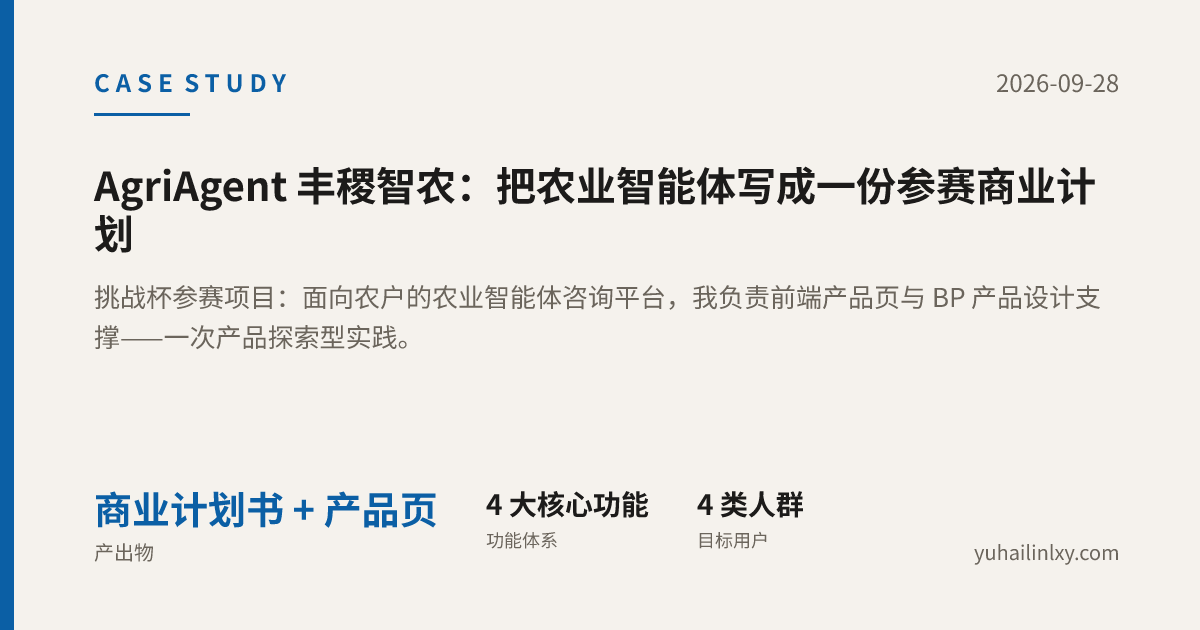
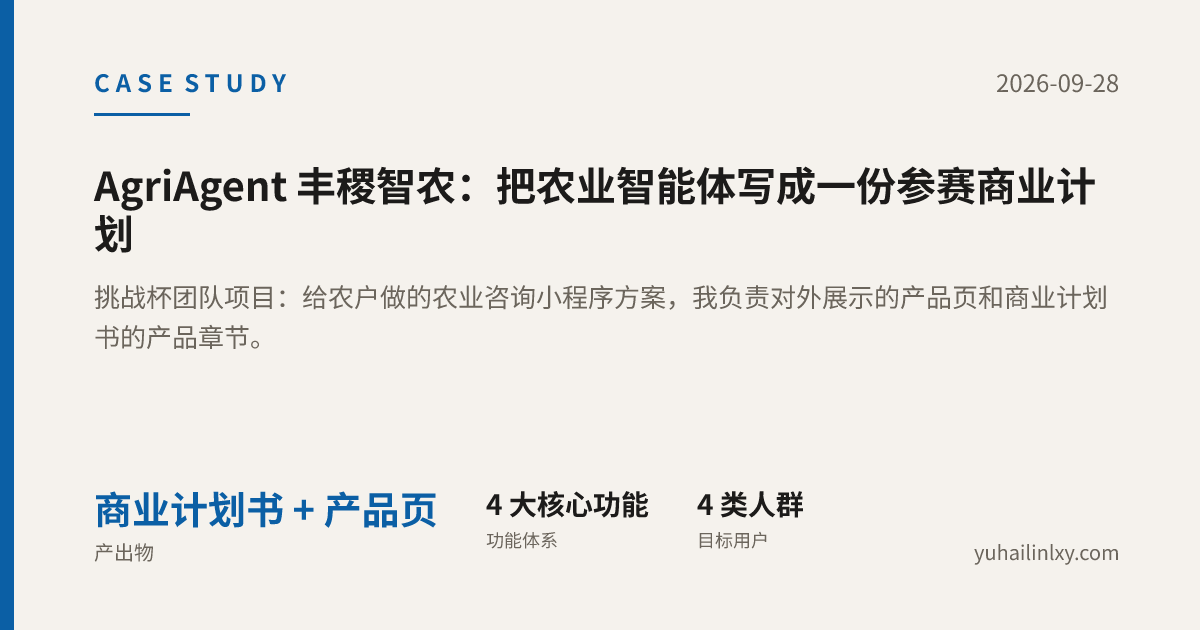
feat(site): 双阅读档位 —— 案例页一键在「简明 / 完整」之间切换
做法：一份正文。每个 h2 后的第一段就是导读，简明档只留「标题 + 导读」，完整档全给；DOM 不增不减，所以打印、搜索、分享都不会出现第二份内容。状态在 html[data-level]，localStorage 记住、?level=full 可分享，首帧由 Layout 的内联脚本写，不闪。

5 篇案例各补 5 段导读（20-80 字、不用术语、数字与正文一致），5 条卡片描述也改成先说人话。新增第 13 道门禁 check-levels：导读存在 / 字数 / 数字一致 / 术语黑名单。

顺带把 AgriAgent 那条「待补充：小挑二等」按证书核实改成院赛二等奖（2026.03，团队 11 人，指导老师张智强）。

Changed region(s): [[0.0617, 0.4524, 0.3392, 0.573], [0.6475, 0.4524, 0.925, 0.5127], [0.4008, 0.4524, 0.555, 0.5127]]

diff --git a/site/src/styles/global.css b/site/src/styles/global.css
@@ -96,3 +96,34 @@
     scroll-behavior: smooth;
   }
 }
+
+/* ---------- 阅读档位（2026-10-28） ----------
+   约定：案例详情页里，每个 <h2> 后的第一段就是「导读」（scripts/check-levels.mjs 把关）。
+   简明档只留小节标题 + 导读；完整档全部显示。DOM 不增不减，所以打印、搜索、分享
+   都不会出现"另一份内容"，也不存在两套事实。
+
+   为什么写在全局而不是组件里：Astro 的 scoped style 会给选择器加 data-astro-cid 前缀，
+   而 <article class="levelled"> 是详情页渲染的，组件里的样式匹配不到它。 */
+.levelled > h2 + p {
+  margin-block: 0.55em 1em;
+  padding-inline-start: 0.85em;
+  border-inline-start: 2px solid var(--section-case);
+  color: var(--foreground);
+  font-size: 1.02em;
+  line-height: 1.8;
+}
+
+[data-level="plain"] .levelled > * {
+  display: none;
+}
+[data-level="plain"] .levelled > h2,
+[data-level="plain"] .levelled > h2 + p {
+  display: block;
+}
+
+@media print {
+  /* 打印永远给完整版：面试官打出来看，不该丢细节 */
+  [data-level="plain"] .levelled > * {
+    display: revert;
+  }
+}

diff --git a/site/src/content/case-studies/personal-workbench.md b/site/src/content/case-studies/personal-workbench.md
@@ -1,6 +1,6 @@
 ---
 title: "个人工作台：10 周 47 个版本的自我管理产品"
-description: "React 19 + Supabase 的自用效率工作台：模块注册表、双适配器数据层、三项体积预算，以及一套跑在免费额度上、每天自动出稿的 AI 日报链路。"
+description: "给自己做的效率工作台：待办、计时、热点、复盘收进一个首页。10 周发了 47 个版本，每天凌晨自动生成一份 AI 日报。"
 pubDatetime: 2026-09-28T12:00:00+08:00
 modDatetime: 2026-10-16T23:30:00+08:00
 featured: true
@@ -24,7 +24,9 @@ metrics:
 
 ## 一、背景与问题
 
-我是大二学生，同时要管课程、竞赛、部门事务和好几个开发项目。市面工具要么太重——Notion 全家桶学习成本高、打开慢；要么只解决单点——番茄钟、待办、笔记各自为政，数据分散在五个 App 里，复盘时凑不齐。
+我同时管着课程、竞赛、部门事务和好几个开发项目，市面上的工具要么太重，要么各管一摊、数据分散。我想要一个打开就知道「今天该干什么」的入口。
+
+市面工具要么太重——Notion 全家桶学习成本高、打开慢；要么只解决单点——番茄钟、待办、笔记各自为政，数据分散在五个 App 里，复盘时凑不齐。
 
 我要的是一个**打开就能看到“今天该干什么”的单一入口**：待办、学习目标、专注计时、热点资讯、健康打卡、每日复盘在同一个系统里互相引用（复盘能一键转成明日待办，考试倒计时能触发提醒）。
 
@@ -32,11 +34,15 @@ metrics:
 
 ## 二、我的角色
 
+从需求到上线都是我一个人做；AI 帮我写代码，但架构、验收标准和发版节奏由我定。
+
 独立产品人与开发者，own 全部环节：需求定义与优先级排序、模块规划与信息架构、技术选型、前后端实现、测试与发布流程。AI 深度参与编码与审查，但**架构决策、验收标准、发版节奏由我把握**——为此建立了版本号制度（SemVer 裁剪 + 发版 checklist）和自动化发版脚本（v1.15 起，一条命令出包）。
 
 10 月的 AI 日报是我第一次把模型放进**无人值守**的位置：它每天凌晨自己跑完抓取、摘要、聚类和成稿，我只在上班前读结果。这一段经历把我对“AI 功能”的理解从“会写提示词”推到了“会设计失败面”。
 
 ## 三、过程与关键取舍
+
+六次取舍里最值钱的一条，是把「要不要引一个库」从感觉变成数字：Motion 实测涨 123KB、超了预算，当场否掉。
 
 **取舍 1：模块注册表，让“加功能”不再是体力活。** 多模块 SPA 的侧边栏、底部 Tab、路由、首页卡片最初分散在四处，新增模块要改 4 个文件。改为单一类型化注册表后，导航/路由/首页卡片全部由它生成，新增模块 = 新建文件夹 + 注册表加一行，且每个模块自动独立 chunk 懒加载。代价是注册表引用超前会卡构建，纪律是每个 commit 保持可构建。
 
@@ -58,6 +64,8 @@ metrics:
 
 ## 四、结果与量化
 
+73 天发了 47 个版本，625 个单元测试全绿；AI 日报每天凌晨自己跑完抓取、摘要、聚簇和成稿。
+
 - **47 个版本 / 73 天**（v1.0.0 → v1.30.3）。节奏分三段：前 4 周 23 版（密集迭代）、9 月 6 版（按需维护）、10 月两天 18 版（先修 7 个体验缺陷，再走完 AI 日报从上线到定稿的 17 版）。全程每个 commit 可构建。
 - **质量门禁全绿**：625 个单元测试（69 个文件）+ 12 条 Playwright 端到端 + 三项体积预算（首屏 JS 790KB / JS 总量 1150KB / 最大单 chunk 340KB）。体积预算拦下过 123KB 的劣化方案。
 - **AI 日报进入无人值守**：每天凌晨自动抓 25 个热榜源，落库 → 逐条摘要 → 事件聚簇 → 成稿。交付当日完整自动运行产出 14 条事件、5 个来源的简报；日报可一键复制为 Markdown，也能按日期回看历史。
@@ -65,6 +73,8 @@ metrics:
 - **诚实交代**：这是 N=1 的自用产品，没有外部用户数据。它的价值在于**完整产品过程的证据**——版本制度、发版 checklist、上线自检、体积预算，这套流程可以直接复用到团队场景。
 
 ## 五、复盘与反思
+
+最贵的一课：625 个测试全绿，上线后却一次都没跑成——测试里那个假数据库比真库宽松，漏掉的一个字段真库当场拒绝。
 
 **成立的**：注册表 + 双适配器让密集迭代没有烂尾（此前我做项目常死于结构混乱）；质量门禁让“快速迭代”没有变成“快速腐化”。这次再添一条：**把不确定性关进状态机和时间预算，比事后反复调提示词有效得多**——AI 功能的稳定性来自工程约束，不来自写得更好的那句话。
 

diff --git a/site/src/content/case-studies/agriagent.md b/site/src/content/case-studies/agriagent.md
@@ -1,6 +1,6 @@
 ---
 title: "AgriAgent 丰稷智农：把农业智能体写成一份参赛商业计划"
-description: "挑战杯参赛项目：面向农户的农业智能体咨询平台，我负责前端产品页与 BP 产品设计支撑——一次产品探索型实践。"
+description: "挑战杯团队项目：给农户做的农业咨询小程序方案，我负责对外展示的产品页和商业计划书的产品章节。"
 pubDatetime: 2026-09-28T13:00:00+08:00
 modDatetime: 2026-09-28T13:00:00+08:00
 tags: ["产品设计", "商业分析", "竞赛"]
@@ -16,10 +16,12 @@ metrics:
   - label: "目标用户"
     value: "4 类人群"
     note: "规模种植户/家庭农场/小农户/农资经销商"
-resultsNote: "项目处于参赛与产品探索阶段：BP 中的识别准确率、服务农户数等均为参赛文书口径，尚无实测验证；获奖情况待核实后补充。"
+resultsNote: "项目处于参赛与产品探索阶段：BP 中的识别准确率、服务农户数等均为参赛文书口径，尚无实测验证；获奖为院赛二等奖（2026.03，证书已核实）。"
 ---
 
 ## 一、背景与问题
+
+农户的作物出了毛病，不知道该问谁，也没有记录可查；中老年农户更不愿意「先填表再提问」。这是方案要解决的起点。
 
 乡村振兴战略下，传统农业的三个痛点反复被提及：技术获取不及时（问谁？）、种植数据管理零散（记哪？）、数字化工具交互门槛高（不会用）。难点在于目标用户——规模化种植户、家庭农场主、小农户、农资经销商——里有大量中老年农户，任何“先填表再提问”的产品设计在他们面前都会失效。
 
@@ -27,9 +29,13 @@ resultsNote: "项目处于参赛与产品探索阶段：BP 中的识别准确率
 
 ## 二、我的角色
 
-挑战杯校赛团队项目（集体申报），我负责**对外展示的前端产品介绍页**的设计与实现（Vite + Tailwind，部署 Vercel），并参与商业计划书产品章节的材料整理。BP 为团队集体产出。
+这是我参与的团队项目（集体申报，团队 11 人），我负责对外展示的产品介绍页：设计、前端实现、部署，以及参与产品章节的材料整理。
+
+挑战杯团队项目（集体申报，团队 11 人，指导老师张智强），我负责**对外展示的前端产品介绍页**的设计与实现（Vite + Tailwind，部署 Vercel），并参与商业计划书产品章节的材料整理。BP 为团队集体产出。
 
 ## 三、过程与关键取舍
+
+三次取舍：功能从使用场景反推、把「文书数据」和「实测数据」分开记账、把环境坑变成一份启动检查清单。
 
 **取舍 1：产品定位从使用场景反推。** 四大功能体系不是拍脑袋列的，每条都锚定一个具体场景：作物异常“拍照即诊断”对应田间即时问题；农时灾害预警对应“错过农时损失一季”；语音交互对应“中老年农户打字难”。这个过程让我第一次体会到：功能清单背后必须是场景清单。
 
@@ -39,12 +45,16 @@ resultsNote: "项目处于参赛与产品探索阶段：BP 中的识别准确率
 
 ## 四、结果与量化
 
+交了完整商业计划书、上线了产品介绍页，还沉淀出一份 7 条的环境检查清单——后来真的用上了。
+
 - 完整商业计划书一份（摘要/市场分析/产品与营销/团队/财务/发展规划六章），随团队完成校赛申报。
 - 产品介绍页设计与实现完成并部署上线（Vercel）。
 - 个人侧沉淀《项目启动检查清单》一份，7 条检查项，已被后续项目实际采用。
-- 【待补充：vault 显示有“小挑二等”获奖证书，归属届次待与用户核实后更新此项。】
+- 2026.03 获重庆邮电大学第十五届「挑战杯」大学生创业计划竞赛 · 经济管理学院院赛**二等奖**（团队 11 人，指导老师张智强）。
 
 ## 五、复盘与反思
+
+回头看最该补的是财务章节：定价和盈利模型是队友主导的，而这是想当 PM 的人最该啃的部分。
 
 **成立的**：场景反推功能的定位方法；“文书口径”与“实测数据”分开记账的诚实习惯。
 

diff --git a/site/src/content/case-studies/student-union-platform.md b/site/src/content/case-studies/student-union-platform.md
@@ -1,6 +1,6 @@
 ---
 title: "学生会交流平台：给 12 个部门做一套真正能用的内部工具"
-description: "React 19 + Supabase 的 13 模块内部平台：上线后用双视角审视给自己开刀，15/16 张表无行级安全等问题暴露后分两轮收口，v1 到 v4.6.1 持续迭代。"
+description: "给 12 个部门做的内部工具：任务、公告、抢票、权限都在一个站里。上线后自查发现 15 张表没做权限隔离，分两轮补完。"
 pubDatetime: 2026-09-30T11:00:00+08:00
 modDatetime: 2026-09-30T11:00:00+08:00
 tags: ["产品设计", "React", "Supabase"]
@@ -24,15 +24,21 @@ resultsNote: "组织内部工具：用户规模为部门口径，无外部用户
 
 ## 一、背景与问题
 
+12 个部门的日常协作全靠微信群和共享文档：任务靠刷屏、公告不知道谁没看、抢票靠接龙截图。
+
 校学生会 12 个部门的日常协作跑在微信群和共享文档上：任务布置靠刷屏、公告触达没有回执（谁没看到永远不知道）、活动抢票靠接龙截图、材料收集靠人肉催。工具层面的真正约束有三个——**零预算**（没有服务器经费）、**成员每年大换血**（培训成本必须趋近于零）、**移动端优先**（几乎所有使用发生在手机上）。
 
 我要做的是一个打开就知道"今天该干什么"的单一入口：任务有状态、公告有已读、抢票不超卖、权限不靠人情。这不是一个高并发产品，但它是真实组织每天要用的生产工具——**"能用"和"敢用"之间隔着一整套工程纪律**。
 
 ## 二、我的角色
 
+一个人做完全程：跑各部门调研、定 13 个模块、设计权限、写前后端、部署并持续迭代。
+
 独立产品人与开发者，own 全部环节：各部门工作流调研、13 个模块的信息架构、四级角色权限模型、React 19 + Supabase 的前后端实现、GitHub Pages 部署与 CI，以及上线后的持续迭代（v1 → v4.6.1）。
 
 ## 三、过程与关键取舍
+
+四次取舍里最关键的一次是「给自己开刀」：上线后做全面审视，发现 15 张表没有行级安全，随后分两轮补。
 
 **取舍 1：Supabase 全托管，把预算约束变成架构决策。** 零预算 + 无运维人力，自建后端从第一天就不成立。选 Supabase 换来 Auth/数据库/Realtime/Storage 全托管，代价是安全责任前移到客户端——这一点后来被审视报告证明是全项目最大的风险敞口。
 
@@ -44,6 +50,8 @@ resultsNote: "组织内部工具：用户规模为部门口径，无外部用户
 
 ## 四、结果与量化
 
+13 个模块上线、服务 12 个部门；四个大版本走过来，留下 100 多篇过程文档。
+
 - **13 个功能模块**上线运行：任务管理（看板拖拽 + 乐观更新）、部门公告（已读回执 + 未读名单）、活动抢票、四级权限体系、Realtime 通知、Ctrl+K 全局搜索、PWA 安装到桌面等，服务 12 个部门的日常协作。
 - **v1 → v4.6.1 四个大版本**：从功能堆叠到审视修复（v3.0.2 → 改进两轮）→ UI 精化（v3.6）→ 移动端门禁（v4.6.1），每个版本有独立迭代总结与实施计划。
 - **质量门禁**：CI 全绿自动部署；375px 溢出门禁随构建运行。
@@ -51,6 +59,8 @@ resultsNote: "组织内部工具：用户规模为部门口径，无外部用户
 - **诚实交代**：这是组织内部工具，用户规模是部门口径，没有外部用户增长数据；审视暴露的安全与性能项按 P0 → P1 → P2 分轮修复，P0（并发安全）在改进轮收口，RLS 全表覆盖等项进入后续迭代——修什么、什么时候修，优先级判断本身就是这个项目的一部分。
 
 ## 五、复盘与反思
+
+最险的一条：如果这个工具管着钱或敏感数据，行级安全和密钥必须在上线前做完——这次只是运气好。
 
 **成立的**：审视文化——敢在没人要求的情况下给自己开刀，17 篇改进文档让"问题"变成"任务"；门禁化——把重复出现的问题（溢出、超卖）做成机器门禁而不是靠记性。
 

diff --git a/site/src/content/case-studies/hongyan-group-interview-retro.md b/site/src/content/case-studies/hongyan-group-interview-retro.md
@@ -1,6 +1,6 @@
 ---
 title: "红岩网校群面复盘：把一次落选当成产品设计题"
-description: "校工作室招新群面最后一轮被刷之后：用产品方法论拆解群面、六轮 AI 模拟验证、沉淀一套可复用的操作手册——2027 秋再战。"
+description: "招新群面最后一轮被刷之后：把「为什么被刷」当产品问题拆开、用 AI 模拟群面练了 6 轮，最后写成一套能直接用的手册。"
 pubDatetime: 2026-09-28T13:30:00+08:00
 modDatetime: 2026-09-28T13:30:00+08:00
 featured: true
@@ -21,15 +21,21 @@ metrics:
 
 ## 一、背景与问题
 
+去年招新，我一路走到最后一轮群面，被刷了。说不清败在哪才是真的输——我把它当成一道产品题来拆。
+
 红岩网校工作室是我大二最想进的地方——它的招新以多轮群面著称。去年招新，我一路走到最后一轮群面，被刷。
 
 失败本身不可怕，可怕的是说不清败在哪。我给自己出了一道产品题：**把“我为什么被刷”当成一个产品问题来拆解**——用户是面试官，他们要的“需求”是可筛选的协作信号；我的“产品”是 45 分钟里的表现；上一版产品有缺陷，我要定位缺陷、设计修复、验证修复，像迭代一个功能那样迭代自己。
 
 ## 二、我的角色
 
+我既是被面试的人，也是复盘的人：定义问题、设计 AI 模拟训练、把结论写成能直接执行的手册。
+
 我是候选人也复盘操盘手：定义问题、设计训练方案（AI 模拟群面 + 逐轮打分 + 深度复盘）、把结论固化为可执行的文档，并对“改进是否有效”负验证责任。
 
 ## 三、过程与关键取舍
+
+三次取舍：把面试当产品而不是考试、用 AI 扮 7 人群面逐轮打分、复盘要挖到根因而不是写套话。
 
 **取舍 1：把面试当产品设计，而不是当考试刷题。** 刷题解不了群面——群面考的是协作信号。我按产品方法重新定义了问题：面试官在 45 分钟里“购买”什么？（结构化思考、推动力、协作姿态）我的“功能”在哪些环节流失“用户”？
 
@@ -39,12 +45,16 @@ metrics:
 
 ## 四、结果与量化
 
+沉淀 4 份文档：九阶段操作手册、约 40 个知识点的总纲、两篇逐轮复盘；但真正的验证要等下一次招新。
+
 - **4 份沉淀文档**：45 分钟逐阶段操作手册（九阶段时间线 + 三框草稿法 + 每阶段话术模板与翻车补救）、群面知识总纲（8 大板块约 40 个知识点：跳出二元对立、根因分析、双边约束、Goodhart 定律、MVP 思维……）、两篇逐轮深度复盘。
 - **可执行的改进产物**：三条“面试当天”红线（数字出口前 5 秒推导、首次发言“两个名字+一个方向+cue 一个人”、27 分钟主动总结）+ 6 条高频话术速查卡。
 - **从模拟对手身上提取 18 个同伴知识点**——把每一次被追问都变成方法论入库。
 - 量化结果诚实说明：模拟轮分数只能证明训练有效性，**真正的验证要等 2027 秋的实战**。
 
 ## 五、复盘与反思
+
+还剩两个坑：被质疑时容易切「辩论脑」，以及节奏前紧后松——手册已经把这两条写成硬规则。
 
 **成立的**：把落选拆成可定位的根因，而不是笼统的“表现不好”；手册化让改进可执行、可复用到任何群面场景。
 

diff --git a/site/src/content/case-studies/couple-app.md b/site/src/content/case-studies/couple-app.md
@@ -1,6 +1,6 @@
 ---
 title: "情侣心愿 App：我的第一次 vibe coding，3 天从骨架到上线"
-description: "早期探索作品，功能不完善：Vue 3 + Pinia + Supabase 的情侣互动应用，心愿闭环、积分与共同日记，3 天从骨架到 Vercel 上线。"
+description: "早期探索作品，功能不完善：一方许愿、一方接单、做完记分的情侣小程序，3 天从空白做到上线。"
 pubDatetime: 2026-09-28T12:30:00+08:00
 modDatetime: 2026-09-28T12:30:00+08:00
 featured: true
@@ -24,15 +24,21 @@ metrics:
 
 ## 一、背景与问题
 
-情侣之间的约定和心愿，散落在聊天记录里就等于没有：说好的事情会被遗忘，做了的事情没有记录，付出没有被看见。
+情侣之间说好的事，散在聊天记录里就等于没说过。我想做个 App：一方许愿，另一方接单，做完记分。
+
+说好的事情会被遗忘，做了的事情没有记录，付出没有被看见——这是三个不同的问题，得用一套闭环一起解。
 
 我想做一个双人闭环产品：一方**发心愿**，另一方**接单完成**；完成拿积分，积分在两人之间流转；重要日子上互动日历，日常写共同日记。约束很硬：我只有零碎时间，必须小步快跑；双人数据要真实同步，不能是本地演示。
 
 ## 二、我的角色
 
+一个人做完全程：定需求、拆阶段、写前后端、部署上线；也是我第一次完整走完「先做出来、再接真后端」。
+
 独立开发者，负责需求定义、五阶段任务拆解、全部前后端实现与部署。这是我第一次在单项目里完整走“纯前端 MVP → 真后端化”的两段式路径。
 
 ## 三、过程与关键取舍
+
+先把功能在本地跑通，再接真后端；中间踩了两个坑：本地能跑、线上构建却报错，环境变量也只在部署平台上有。
 
 **取舍 1：先闭环，后真实。** MVP 阶段（第二天）我没有先接后端，而是用“身份切换器”模拟双人——心愿发 → 卡片墙 → 接单 → 完成 → 通知的完整闭环先在本地跑通。第三天再把 Supabase 接进来替换存储与 Auth。这样产品逻辑和数据接入两类问题永远不混在一起调试。
 
@@ -42,11 +48,15 @@ metrics:
 
 ## 四、结果与量化
 
+3 天上线、5 个功能模块；但功能不完善，也没有真实用户用过——它的价值是留下「从想到做出来」这一步。
+
 - **3 天完成 5 个阶段**（2026-07-26 骨架 → 07-28 部署上线），5 个功能模块：心愿系统、互动日历、积分系统、共同日记、站内通知。
 - Supabase 后端：双人数据云端同步 + Auth 登录；Vercel 部署 + GitHub Actions 流水线。
 - 沉淀 9 篇阶段经验笔记；其中“Vercel 部署 + Supabase Auth 排错”一篇系统整理了环境差异类问题，明确标注跨项目可复用。
 
 ## 五、复盘与反思
+
+现在回看：积分的数值是拍脑袋定的，没画过激励闭环；双人产品最常见的情况（一方长期不活跃）完全没处理。
 
 **成立的**：两段式交付（先闭环后真实）让 3 天节奏成为可能；阶段笔记当天写，坑当天固化。
 

diff --git a/docs/plans/2026-10-28-双阅读档位计划.md b/docs/plans/2026-10-28-双阅读档位计划.md
@@ -153,9 +153,36 @@ root.dataset.level = level === "full" ? "full" : "plain";
 
 回滚方式：删 `ReadingLevel.astro` + 去掉 `data-level` 样式，内容不动（导读段落退回普通段落，不影响阅读）。
 
-## 8. 待用户拍板
+## 8. 落地记录（2026-10-28，P0–P2 已做完）
 
-1. **默认档位**：`简明`（推荐）/ `完整` / 跟随上次选择（首次访问给哪个）。
+用户 2026-10-28 回复「做好计划觉得没有问题就可以开始实施了」，按计划默认值开工：**默认档 = 简明**、**范围 = 只案例**、**导读由我起草**。实际实现比计划更简，偏离如下：
+
+| 计划原案 | 实际做法 | 为什么改 |
+|---|---|---|
+| 深水块 `data-depth` + rehype 插件按 `##` 分包 | **没有深水块**：简明档 = 每个 `<h2>` 只留标题 + 第一段 | 一份正文里最稳的分层就是"留导读、其余收起"。省掉标记语法、省掉插件、也省掉"深水块里混了小标题"这类错法 |
+| 每篇开头加「30 秒版」块 | 没做 | 简明档本身就是 30 秒版（5 段导读），再加一块是重复 |
+| 门禁 6 条（含深水块 2 条） | 实现了 4 条：导读存在 / 20–80 字 / 数字与本节正文一致 / 术语黑名单 | 深水块没了，那两条自然消失 |
+| 只改 2 篇（P1） | 一次改完 5 篇 + 5 条卡片描述 | 门禁是全量扫描的，只写 2 篇会直接红；而且用户的原话是"每一个项目" |
+
+**实测（2026-10-28，1440/390，本地 preview）**
+
+| 指标 | 结果 |
+|---|---|
+| 简明档页面高度 | 1870px（完整档 4658px，**降 60%**） |
+| 正文高度 | 706px vs 3494px |
+| 互动 | 鼠标点「完整」切换成功、刷新后记住、桌面刷新保持、键盘 Enter 可切 |
+| 分享链接 | `?level=full` 打开即完整档，并写回 localStorage |
+| 打印 | `@media print` 下隐藏元素 0 个（恒为完整版） |
+| 移动端 390 | `scrollWidth = 390`，无横向滚动 |
+| 构建 | 13 道门禁全绿（新增 `check-levels`：5 篇 / 25 节） |
+| HTML 体积 | 每页 +3.2–3.4 KB（+6.2%–7.6%），在 8% 预算内 |
+| 门禁可红 | 首轮缺导读时如实报 18 项（含"第一个元素不是 <p>""导读 135 字""数字 1 找不到"） |
+
+**已知取舍**：导读与正文个别处语义重叠（概览型导读难免），已按"导读只做摘要、正文保留细节"处理；4 篇仍有"导读说结论、正文说过程"的重复感，可在下一轮压缩正文首段。
+
+## 9. 待用户拍板
+
+1. **默认档位**：已按 `简明` 实现（首次访问给简明，之后跟随上次选择）。要改默认值只需动 `Layout.astro` 一行。
 2. **范围**：只案例（P0+P1+P2，约 11–15 h）/ 再加数据分析与拆解（P3，共约 19–27 h）。
 3. **是否接受"简明档隐藏部分内容"**：接受 → 走本计划；不接受 → 只能写两套文案，成本 ×2 且要接受漂移风险。
 

diff --git a/site/README.md b/site/README.md
@@ -11,14 +11,14 @@ Astro 7 作品集站，基座为 [AstroPaper](https://github.com/satnaing/astro-
 - 搜索：**pagefind**（构建末尾 `pagefind --site dist` 建索引，`src/pages/search.astro` 懒加载，dev 无索引时优雅降级）
 - OG：**逐页静态图** 1200×630，`npm run og` 生成 + `public/og/manifest.json` 登记指纹，`features.dynamicOgImage` 关闭
 - UI 文案中文：`src/i18n/lang/zh.ts`
-- 构建：`astro check && astro build` + **12 道构建期门禁** + pagefind 索引（下表）
+- 构建：`astro check && astro build` + **13 道构建期门禁** + pagefind 索引（下表）
 
 ## 命令
 
 ```bash
 npm install        # npmmirror 源
 npm run dev        # 本地开发 http://localhost:4321
-npm run build      # astro check + 构建 + 12 道门禁 + pagefind 索引
+npm run build      # astro check + 构建 + 13 道门禁 + pagefind 索引
 npm run og         # 重生成逐页 OG 图（改了内容必须跑，否则 check-og 红）
 npm run lh         # Lighthouse 移动端四类 ≥90（13 页 × 2 次取高分）
 ```
@@ -34,6 +34,7 @@ npm run lh         # Lighthouse 移动端四类 ≥90（13 页 × 2 次取高分
 | `check-links` | dist 全产物死链 / `*.vercel.app` 残留 |
 | `check-tokens` | `src/pages`、`src/components` 内 0 处颜色字面量（只许 token） |
 | `check-typography` | 正文里不许用 `~` 做范围号（`26~102%` 会被读成 `26102%`） |
+| `check-levels` | 案例详情页每节第一段必须是导读（20–80 字、无术语、数字与正文一致）——简明档只显示它 |
 | `validate-rss` | RSS 全文 + 非绝对链接 |
 | `check-ld` | JSON-LD WebSite/Person/BlogPosting 合规 |
 | `check-headings` | 每页恰好 1 个 h1、标题不跳级 |

diff --git a/docs/STATUS.md b/docs/STATUS.md
@@ -2,6 +2,18 @@
 
 > AI 连续工作协议核心文件（AGENTS.md 仓库特化规则 4）：每次会话开工先读本文件，收工必更新并 commit+push。
 
+## 2026-10-28 · 双阅读档位（简明 / 完整）—— 已落地
+
+**下一轮从这个节接**：
+
+- 调研：`docs/research/2026-10-28-双阅读档位调研.md`（GitHub 上无广泛采用的现成方案；机制借 Docusaurus Tabs 的 groupId/queryString，模型借 mkdocs-audience-toggle 的"隐藏块"）
+- 计划 + 落地记录：`docs/plans/2026-10-28-双阅读档位计划.md` §8
+- 做法：**一份正文**，每个 `<h2>` 后第一段是导读（`check-levels.mjs` 把关）；简明档只留标题 + 导读，完整档全给。状态在 `<html data-level>`，localStorage + `?level=full` 可分享，首帧由 `Layout.astro` 的内联脚本写，不闪
+- 组件：`src/components/ReadingLevel.astro`（只挂在案例详情页）；样式在 `src/styles/global.css` 的「阅读档位」段（必须全局，scoped 样式加 data-astro-cid 匹配不到详情页的 article）
+- 5 篇案例各补 5 段导读 + 5 条卡片描述重写；AgriAgent 那条「待补充：小挑二等」已按证书核实改成**院赛二等奖**（2026.03，团队 11 人，张智强）
+- 实测：简明档 1870px vs 完整档 4658px（降 60%）；HTML +6.2%–7.6%；13 道门禁全绿
+- 已知遗留：导读与正文个别处语义重叠；数据分析/AI 拆解/工具箱三个板块还没接
+
 ## 2026-10-27/28 · 面试版打磨（第 3 轮，已上线）
 
 **下一轮开工从这一节接**：
